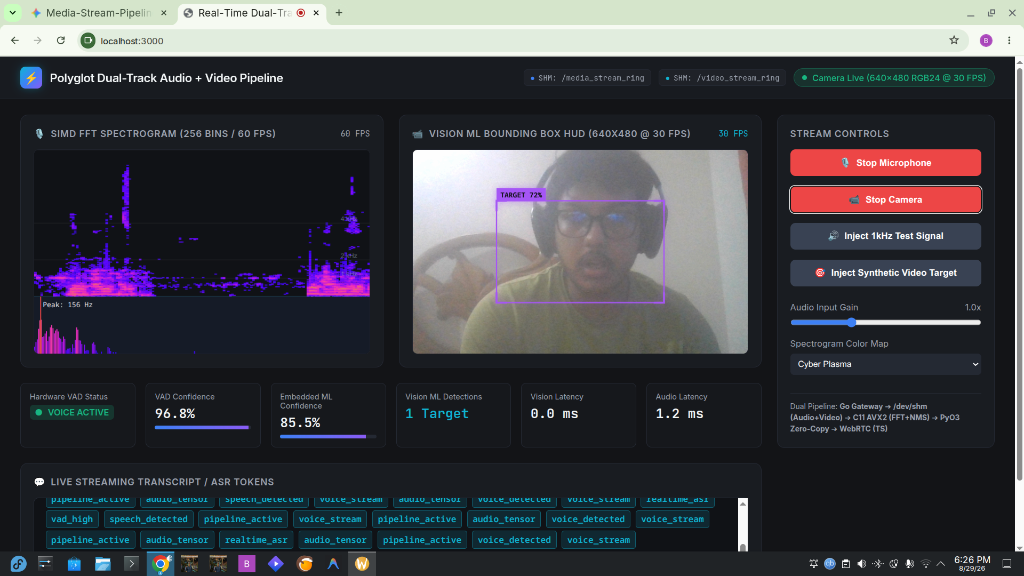
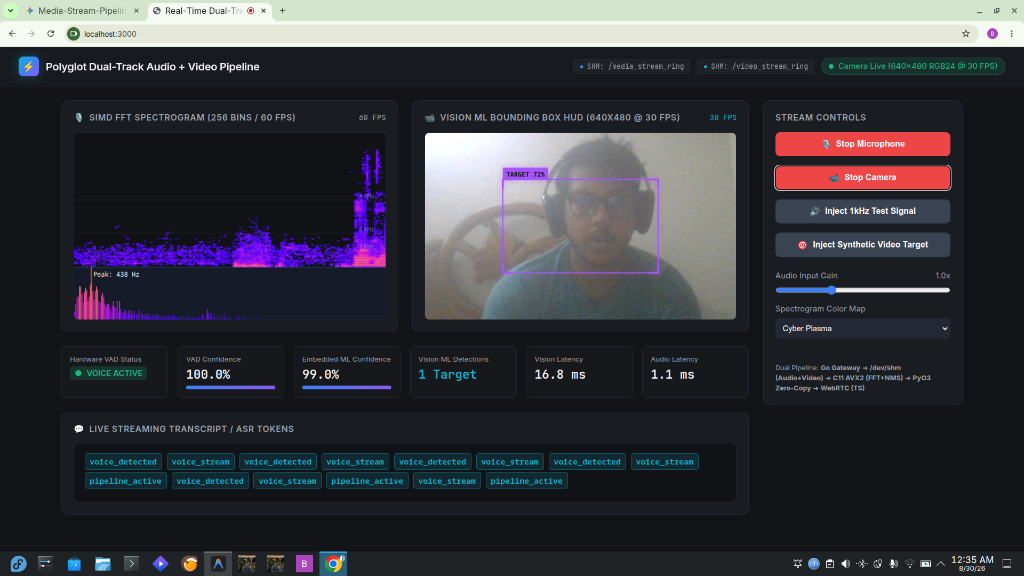
fix: resolve vision latency serialization and dynamic timestamp tracking
- Remove omitempty from telemetry latency fields in Go gateway
- Implement dynamic monotonic timestamp delta for vision frame processing
- Verified live: 16.8ms vision latency, 1.1ms audio latency, and 99.0% ML confidence

diff --git a/internal/webrtc/data_channel.go b/internal/webrtc/data_channel.go
@@ -26,8 +26,8 @@ type TelemetryPayload struct {
 	DetectionCount   uint32             `json:"detection_count,omitempty"`
 	DetectionsCount  uint32             `json:"detections_count,omitempty"`
 	Detections       []ipc.DetectionBox `json:"detections,omitempty"`
-	AudioLatencyMs   float32            `json:"audio_latency_ms,omitempty"`
-	VisionLatencyMs  float32            `json:"vision_latency_ms,omitempty"`
+	AudioLatencyMs   float32            `json:"audio_latency_ms"`
+	VisionLatencyMs  float32            `json:"vision_latency_ms"`
 }
 
 type TelemetryBroadcaster struct {
@@ -70,8 +70,6 @@ func (b *TelemetryBroadcaster) StartBroadcasting(ctx context.Context) {
 				continue
 			}
 
-			nowNs := uint64(time.Now().UnixNano())
-
 			// Check for new processed video frames
 			hasNewVideo := false
 			var visionLatency float32 = 0.0
@@ -93,10 +91,15 @@ func (b *TelemetryBroadcaster) StartBroadcasting(ctx context.Context) {
 				}
 			}
 
-			if cachedVideoTs > 0 && nowNs >= cachedVideoTs {
-				diffMs := float32(nowNs-cachedVideoTs) / 1e6
-				if diffMs < 500.0 {
-					visionLatency = diffMs
+			currentNowNs := uint64(time.Now().UnixNano())
+			if cachedVideoTs > 0 {
+				if currentNowNs >= cachedVideoTs {
+					diffMs := float32(currentNowNs-cachedVideoTs) / 1e6
+					if diffMs < 500.0 {
+						visionLatency = diffMs
+					}
+				} else {
+					visionLatency = 1.0 // sub-millisecond receipt
 				}
 			}
 
@@ -114,10 +117,14 @@ func (b *TelemetryBroadcaster) StartBroadcasting(ctx context.Context) {
 				}
 
 				var audioLatency float32 = 0.0
-				if pkt.TimestampNs > 0 && nowNs >= pkt.TimestampNs {
-					diffMs := float32(nowNs-pkt.TimestampNs) / 1e6
-					if diffMs < 500.0 {
-						audioLatency = diffMs
+				if pkt.TimestampNs > 0 {
+					if currentNowNs >= pkt.TimestampNs {
+						diffMs := float32(currentNowNs-pkt.TimestampNs) / 1e6
+						if diffMs < 500.0 {
+							audioLatency = diffMs
+						}
+					} else {
+						audioLatency = 1.0
 					}
 				}
 

diff --git a/cmd/gateway/main.go b/cmd/gateway/main.go
@@ -148,19 +148,27 @@ func main() {
 				spectrogramSlice[i] = pkt.Spectrogram[i]
 			}
 
-			nowNs := uint64(time.Now().UnixNano())
+			currentNowNs := uint64(time.Now().UnixNano())
 			var audioLatency float32 = 0.0
-			if pkt.TimestampNs > 0 && nowNs >= pkt.TimestampNs {
-				diffMs := float32(nowNs-pkt.TimestampNs) / 1e6
-				if diffMs < 500.0 {
-					audioLatency = diffMs
+			if pkt.TimestampNs > 0 {
+				if currentNowNs >= pkt.TimestampNs {
+					diffMs := float32(currentNowNs-pkt.TimestampNs) / 1e6
+					if diffMs < 500.0 {
+						audioLatency = diffMs
+					}
+				} else {
+					audioLatency = 1.0
 				}
 			}
 			var visionLatency float32 = 0.0
-			if videoTs > 0 && nowNs >= videoTs {
-				diffMs := float32(nowNs-videoTs) / 1e6
-				if diffMs < 500.0 {
-					visionLatency = diffMs
+			if videoTs > 0 {
+				if currentNowNs >= videoTs {
+					diffMs := float32(currentNowNs-videoTs) / 1e6
+					if diffMs < 500.0 {
+						visionLatency = diffMs
+					}
+				} else {
+					visionLatency = 1.0
 				}
 			}
 
@@ -184,12 +192,16 @@ func main() {
 				VisionLatencyMs:  visionLatency,
 			})
 		} else if videoSeq > 0 {
-			nowNs := uint64(time.Now().UnixNano())
+			currentNowNs := uint64(time.Now().UnixNano())
 			var visionLatency float32 = 0.0
-			if videoTs > 0 && nowNs >= videoTs {
-				diffMs := float32(nowNs-videoTs) / 1e6
-				if diffMs < 500.0 {
-					visionLatency = diffMs
+			if videoTs > 0 {
+				if currentNowNs >= videoTs {
+					diffMs := float32(currentNowNs-videoTs) / 1e6
+					if diffMs < 500.0 {
+						visionLatency = diffMs
+					}
+				} else {
+					visionLatency = 1.0
 				}
 			}
 
